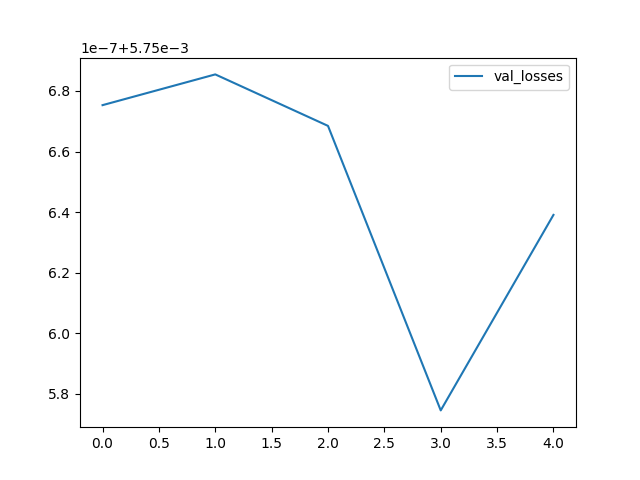
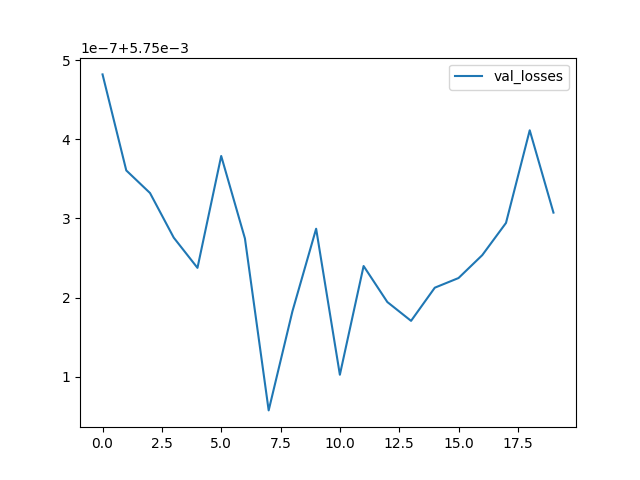
cross entropy 20 epochs

diff --git a/main.py b/main.py
@@ -30,16 +30,16 @@ data_len = 10
 goDataset = GoDataset("data/train/dan_train.csv", data_len)
 
 config = {
-    "input_dim": 128,
+    "input_dim": 256,
     "output_dim": 19 * 19,
-    "num_heads": 2,
-    "ffn_dim": 128,
+    "num_heads": 4,
+    "ffn_dim": 256,
     "num_layers": 2,
     "depthwise_conv_kernel_size": 3,
     "dropout": 0.1,
     "use_group_norm": False,
     "convolution_first": False,
-    "lr": 0.00001,
+    "lr": 0.0001,
     "gen_path": "data/models/gen",
     "dis_path": "data/models/dis",
     "device": torch.device("cuda" if torch.cuda.is_available() else "cpu"),
@@ -47,8 +47,8 @@ config = {
     "batch_size": 1024,
     "clip_value": 5,
     "data_len": data_len,
-    "epochs": 100,
-    "early_stop": 20,
+    "epochs": 400,
+    "early_stop": 400,
     "selected": 1
 }
 
@@ -66,7 +66,7 @@ train_loader = DataLoader(
 val_loader = DataLoader(
     val_dataset, batch_size=int(config["batch_size"]), shuffle=False, pin_memory=True
 )
-trainer = Trainer(config, train_loader, val_loader)
+trainer = Trainer(config, train_loader, val_loader, load_model=True, from_epoch=20, path="models/v1/epoch_20.pth")
 statistic = trainer.run()
 
 

diff --git a/Trainer.py b/Trainer.py
@@ -49,7 +49,7 @@ class Trainer:
 
         self.optimizer = torch.optim.Adam(self.pre.parameters(), lr=config["lr"])
 
-        self.criterion = nn.MSELoss()
+        self.criterion = nn.CrossEntropyLoss()
 
         self.clip_value = config["clip_value"]
 
@@ -178,17 +178,18 @@ class Trainer:
         val_accs = []
 
         for epoch in range(self.config["epochs"]):
-            print(f"Epoch {epoch + 1}/{self.config['epochs']}")
+            print(f"Epoch {epoch + 1 + self.from_epoch}/{self.config['epochs'] + self.from_epoch}")
             self.train(trian_losses)
             self.evaluate(val_losses, val_accs)
 
             gc.collect()
             torch.cuda.empty_cache()
 
-            torch.save(
-                self.pre,
-                f"models/{self.version}/epoch_{epoch + 1}.pth",
-            )
+            if (epoch + 1 + self.from_epoch) % 10 == 0:
+                torch.save(
+                    self.pre,
+                    f"models/{self.version}/epoch_{epoch + 1 + self.from_epoch}.pth",
+                )
 
             if self.early_count >= self.config["early_stop"]:
                 break
